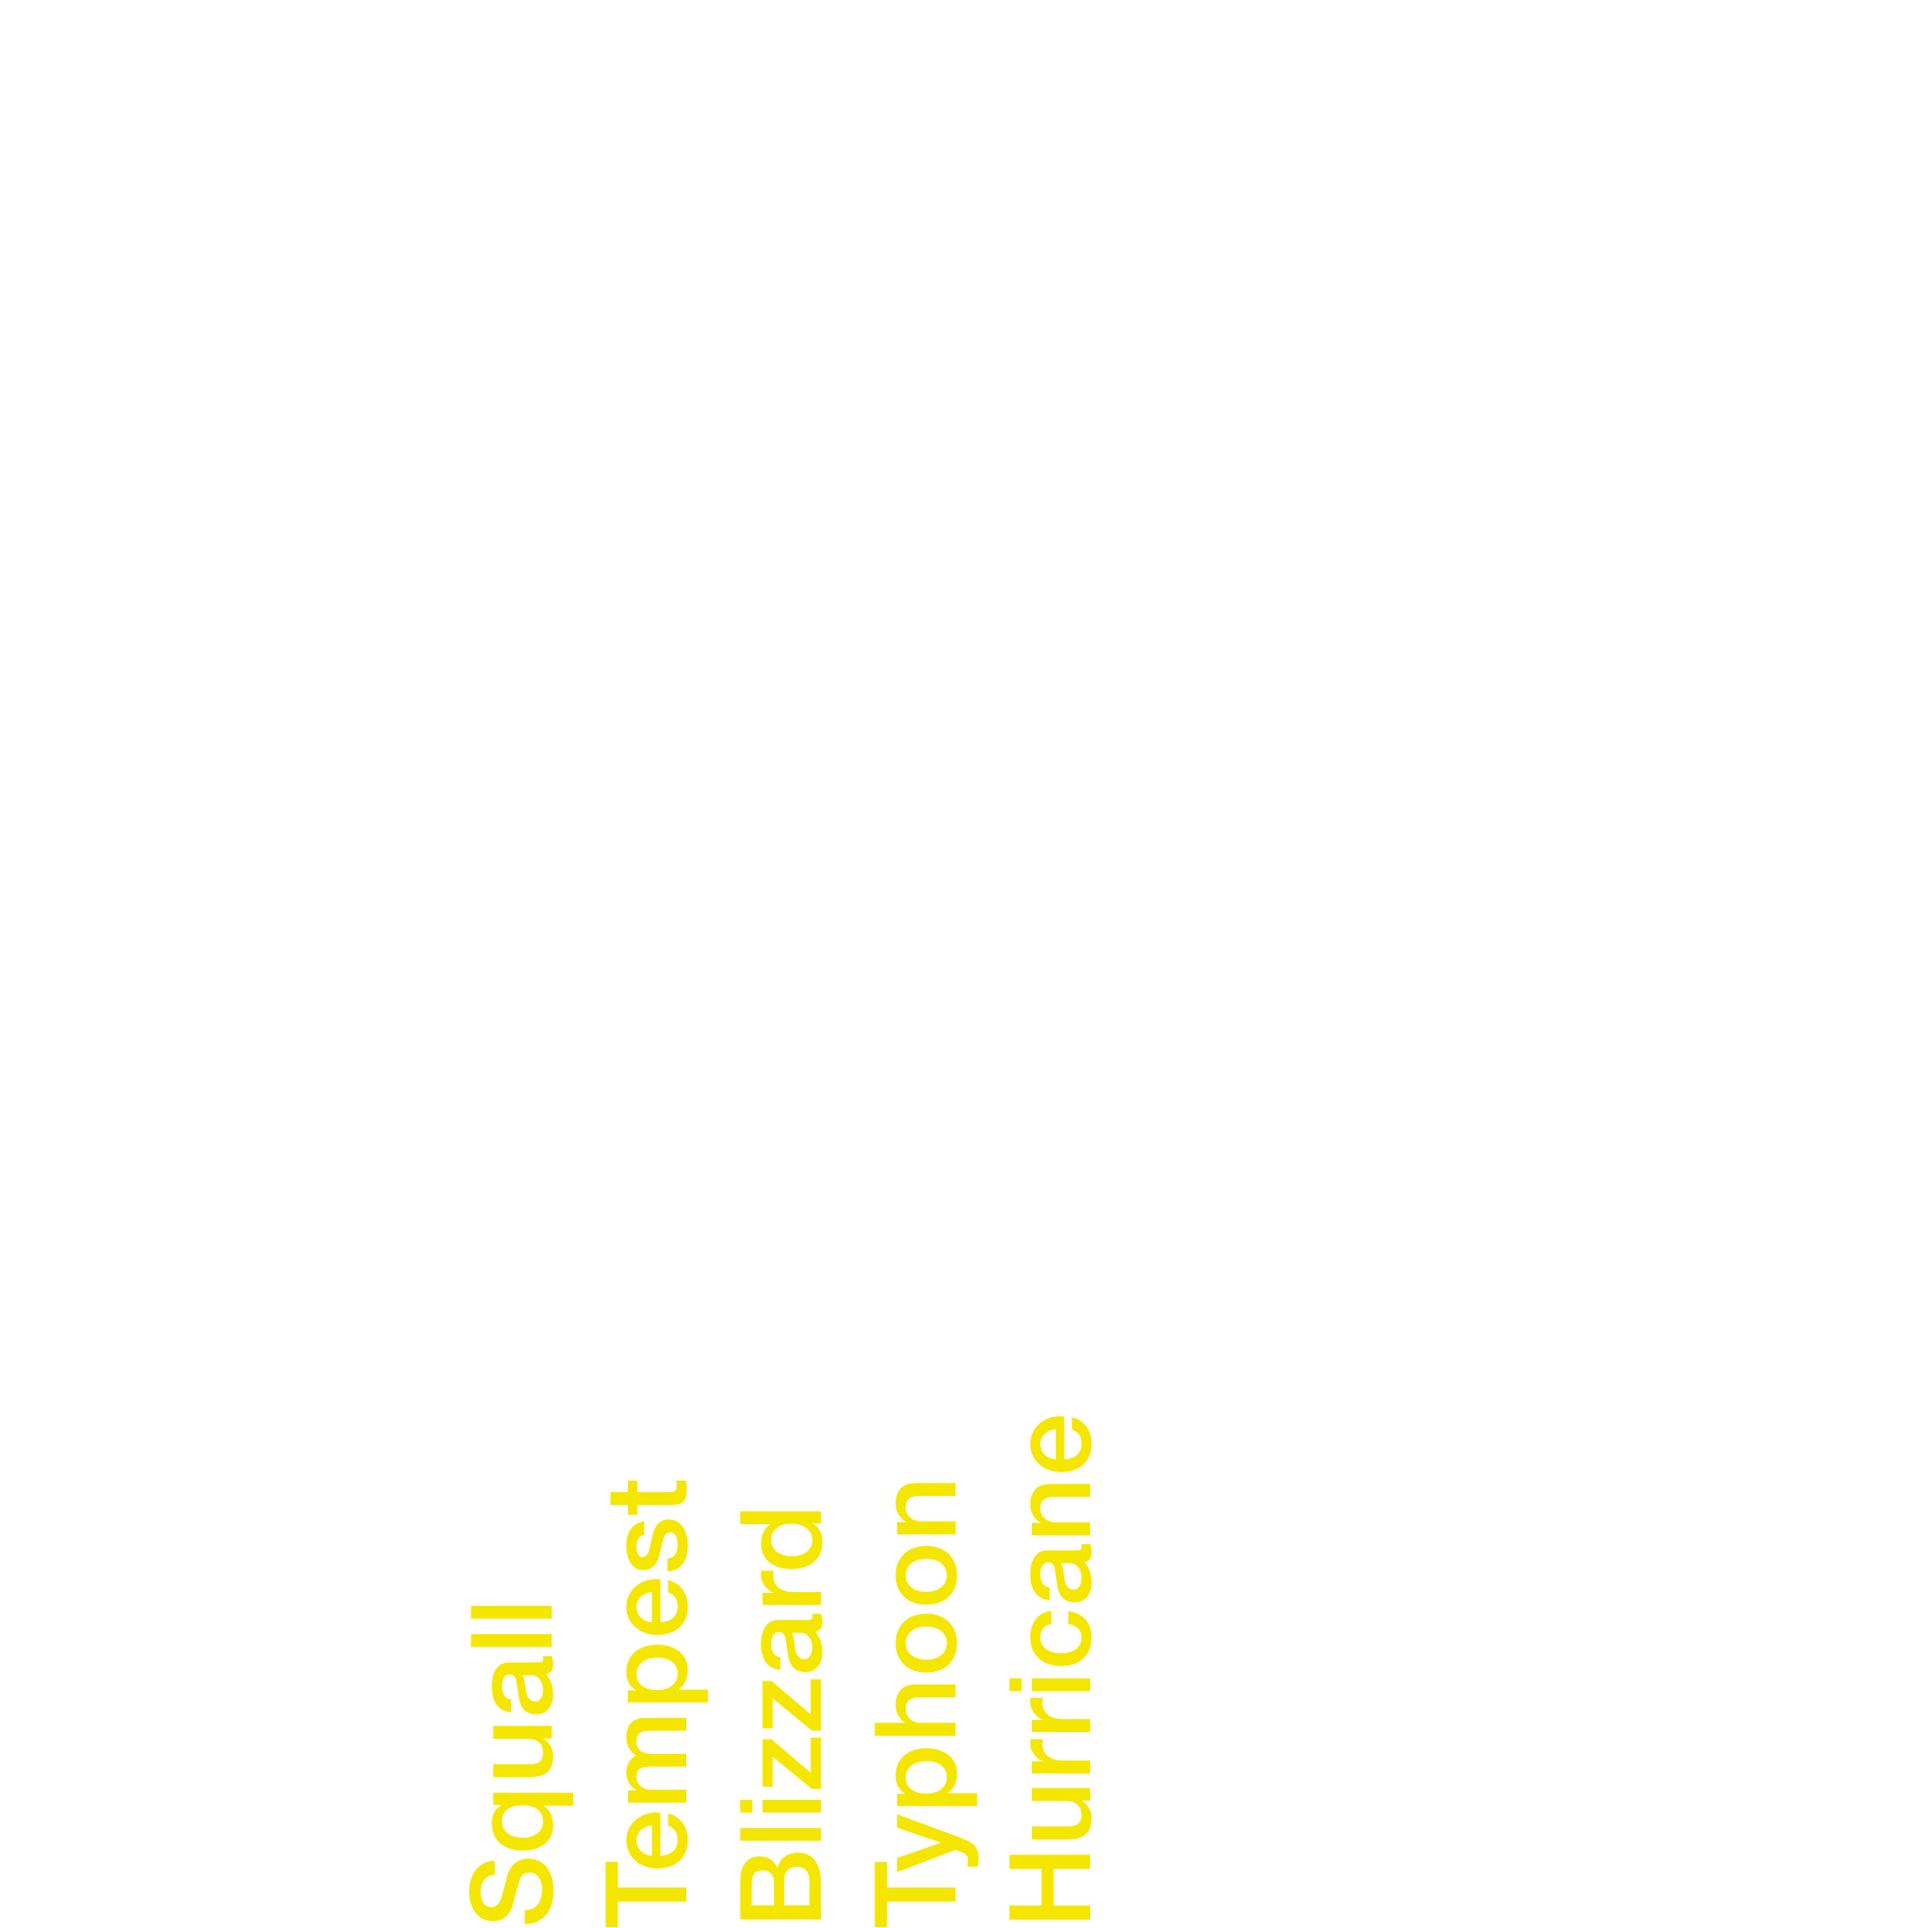
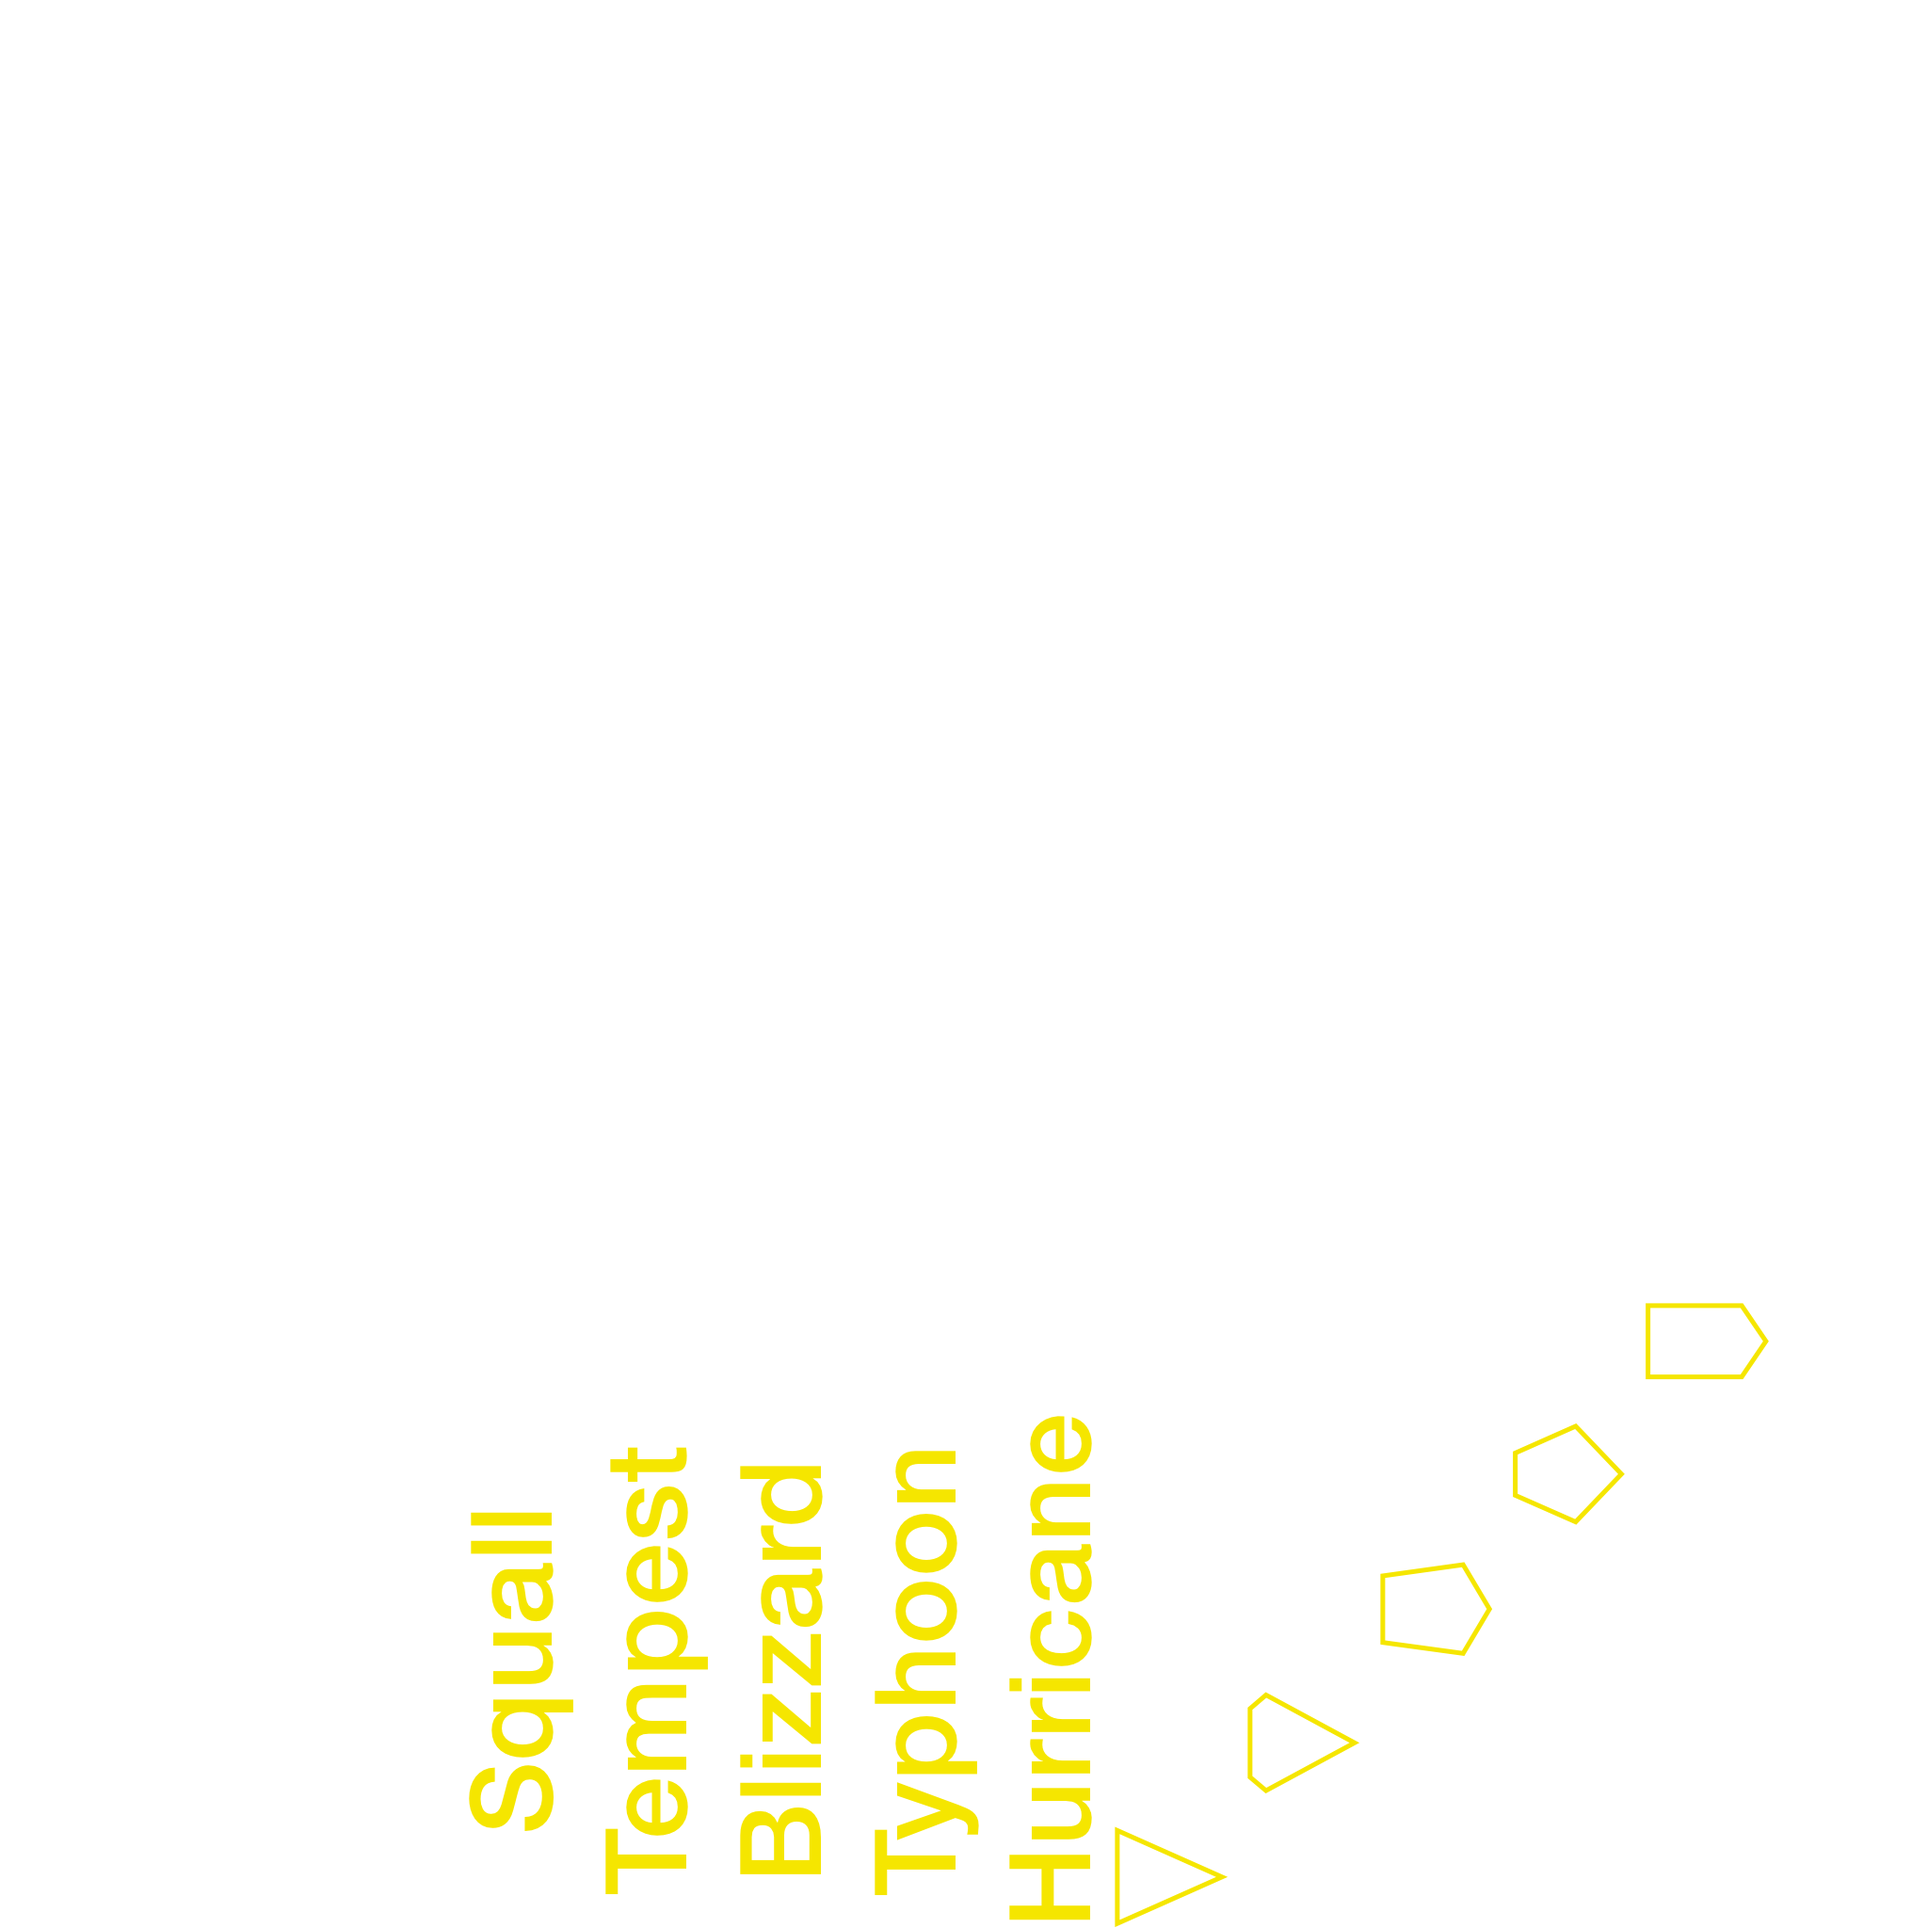
Added altitude meter

diff --git a/rings.h b/rings.h
@@ -50,13 +50,13 @@ Ringmaster rm1 = {
 
 void generateRings(Ringmaster *rm){
     for (int i = 0; i <= 12; i++){
-        ringList[i].x = 0;
-        ringList[i].y = nomScreenHeight;
-        ringList[i].width = nomScreenWidth;
-        ringList[i].height = 180;
+        ringList[i].x = 40;
+        ringList[i].y = nomScreenHeight - 361;
+        ringList[i].width = nomScreenWidth - 80;
+        ringList[i].height = 120;
         ringList[i].color = &ringColor;
-        ringList[i].velY = 1;
-        ringList[i].split = (rand() % ((nomScreenWidth - rm->gapSize) + 1 ) + (rm->gapSize / 2));
+        ringList[i].velY = 0.1;
+        ringList[i].split = (rand() % ((nomScreenWidth - rm->gapSize - 80) + 1 ) + (rm->gapSize / 2));
         ringList[i].gap = 0;
         rm->rings[i] = &ringList[i];
     }
@@ -64,10 +64,10 @@ void generateRings(Ringmaster *rm){
 
 void reorderRingArray(Ringmaster *rm){
     Ring *ring = rm->rings[0];
-    ring->y = nomScreenHeight;
-    ring->height = 200;
+    ring->y = nomScreenHeight - 361;
+    ring->height = 120;
     ring->velY = 0.1;
-    ring->split = (rand() % ((nomScreenWidth - rm->gapSize) + 1 ) + (rm->gapSize/ 2));
+    ring->split = (rand() % ((nomScreenWidth - rm->gapSize - 80) + 1 ) + (rm->gapSize/ 2));
     ring->gap = 0;
     for (int i = 0; i < rm->numRings; i++){
         rm->rings[i] = rm->rings[i+1];
@@ -77,7 +77,7 @@ void reorderRingArray(Ringmaster *rm){
 
 void updateRingmaster(Ringmaster *rm){
     rm->count++; //Count between launches
-    if (rm->active <= rm->numRings  && rm->count > 60){ //When to launch new rings
+    if (rm->active <= rm->numRings  && rm->count > 40){ //When to launch new rings
         rm->active++;
         rm->count = 0;
     }
@@ -88,9 +88,18 @@ void updateRingmaster(Ringmaster *rm){
         }
         if (braking == true){
             ring->velY += (nomScreenHeight - (ring->y)) * -rm->acceleration;
+            if (ring->velY < 0.1){
+              ring->velY = 0.1;
+            }
         }
         else {
-            ring->velY += (nomScreenHeight - (ring->y)) * rm->acceleration;
+            if (ring->y > nomScreenHeight - 800){
+              //ring->velY += (nomScreenHeight - (ring->y)) * (rm->acceleration / 10);
+              ring->velY += (nomScreenHeight - (ring->y)) * rm->acceleration / 8;
+            }
+            else {
+              ring->velY += (nomScreenHeight - (ring->y)) * rm->acceleration / 8;
+          }
         }
         if (ring->velY > rm->maxY){
             ring->velY = rm->maxY;
@@ -152,8 +161,6 @@ void drawRing(Ring *ring){
     int width = ring->split - ring->gap / 2;
     int width2 = ring->width - (ring->split + ring->gap / 2);
     int height = ring->height;
-    int width3 = ring->gap;
-    int x3 = ring->split - ring->gap / 2;
     S2D_Color *color = ring->color;
     #ifdef ROTATE
         S2D_DrawQuad(
@@ -176,16 +183,6 @@ void drawRing(Ring *ring){
             // Lower left
             (y + height), (nomScreenWidth - x2), color->r, color->g, color->b, color->a
         );
-        // S2D_DrawQuad(
-        //     // Upper left
-        //     y, (nomScreenWidth - x3), color->r, color->g, color->b, color->a,
-        //     // Upper right
-        //     y, (nomScreenWidth - (x3 + width3)), color->r, color->g, color->b, color->a,
-        //     // Lower right
-        //     (y + height), (nomScreenWidth - (x3 + width3)), color->r, color->g, color->b, color->a,
-        //     // Lower left
-        //     (y + height), (nomScreenWidth - x3), color->r, color->g, color->b, color->a
-        // );
     #else
         S2D_DrawQuad(
             // Upper left
@@ -207,16 +204,7 @@ void drawRing(Ring *ring){
             // Lower left
             x2, (y + height), color->r, color->g, color->b, color->a
         );
-        // S2D_DrawQuad(
-        //     // Upper left
-        //     x3, y, 1, 1, 1, 1,
-        //     // Upper right
-        //     (x3 + width3), y, 1, 1, 1, 1,
-        //     // Lower right
-        //     (x3 + width3), (y + height), 1, 1, 1, 1,
-        //     // Lower left
-        //     x3, (y + height), 1, 1, 1, 1
-        // );
+
     #endif
 }
 

diff --git a/sprites.h b/sprites.h
@@ -11,6 +11,12 @@ typedef struct Sprite {
     int width;
 } Sprite;
 
+typedef struct Animation {
+    int frame;
+    int first;
+    int last;
+} Animation;
+
 Sprite numberFont50;
 S2D_Sprite *numberFont50img;
 double nf50Sheet[10][4] = {
@@ -60,7 +66,7 @@ double nf80Sheet[10][4] = {
 
 Sprite gameSprite;
 S2D_Sprite *gameImg;
-double gameSheet[20][4] = {
+double gameSheet[21][4] = {
     {	0	,	0	,	280	,	180	}, // 0 - Select players
     {	0	,	180	,   280	,	180	}, // 1 - Select your ship
     {	0	,	360	,   152	,	36	}, // 2 - Ship stat - Control
@@ -80,7 +86,8 @@ double gameSheet[20][4] = {
     {	902	,	0   ,	450	,	540	}, //  16 - Select ship big 2
     {	574	,	587 ,	450	,	540	}, //  17 - Select ship big 3
     {	1076,	587 ,	450	,	540	}, //  18 - Select ship big 4
-    {	1377,	0   ,	450	,	540	} //  19 - Select ship big 5
+    {	1377,	0   ,	450	,	540	}, //  19 - Select ship big 5
+    { 0 ,  1892 ,  48 , 48} // 20 - Meter marker
 };
 
     // {	0	,	320	,	550	,	143	}, // 6 - Troposphere
@@ -116,7 +123,7 @@ void defineImages() {
         numberFont300img = S2D_CreateSprite("number_font_300px.png");
     #endif
     numberFont50img->x = 48;
-    numberFont50img->y = 46;
+    numberFont50img->y = 48;
     numberFont50.spr = numberFont50img;
     numberFont50.frames = 10;
     numberFont50.sheet = &nf50Sheet[0];
@@ -167,8 +174,16 @@ int numPlaces(int n){
     return 10;
 }
 
-void drawNumber(Sprite *sprite, int n, int x, int y){
+void drawNumber(Sprite *sprite, int n, int x, int y, char *alignment){
+    int right = strncmp(alignment, "right", 5);
+    int left = strncmp(alignment, "left", 4);
     int digits = numPlaces(n);
+    if (right == 0){
+       x = x - (digits * sprite->sheet[0][3]);
+    }
+    if (left == 0){
+       x = x;
+    }
     for (int i = digits; i>0; i--){
         // draw digits in order from right to left
 
@@ -194,11 +209,34 @@ void drawNumber(Sprite *sprite, int n, int x, int y){
     }
 }
 
-typedef struct Animation {
-    int frame;
-    int first;
-    int last;
-} Animation;
+void drawSprite2(Sprite *sprite, Animation *ani, int x, int y){
+    int frame = ani->first + ani->frame;
+    #ifdef ROTATE
+        S2D_ClipSprite(sprite->spr, sprite->sheet[frame][1], (sprite->width - sprite->sheet[frame][0] - sprite->sheet[frame][2]), sprite->sheet[frame][3], sprite->sheet[frame][2]);
+        sprite->spr->x = y;
+        sprite->spr->y = nomScreenWidth - x - sprite->sheet[frame][2];
+    #else
+        S2D_ClipSprite(sprite->spr, sprite->sheet[frame][0], sprite->sheet[frame][1], sprite->sheet[frame][2], sprite->sheet[frame][3]);
+        sprite->spr->x = x;
+        sprite->spr->y = y;
+    #endif
+    S2D_DrawSprite(sprite->spr);
+}
+
+Animation meterMarker = {
+    .frame = 0,
+    .first = 20,
+    .last = 20
+};
+
+void drawAltitude(int n){
+    int digits = numPlaces(n);
+    int x = (nomScreenWidth / 2) - ((digits + 1) * 46 / 2);
+    int markerX = (nomScreenWidth / 2) + (digits * 46 / 2);
+    int y = 40;
+    drawNumber(&numberFont50, n, x, y, "left");
+    drawSprite2(&gameSprite, &meterMarker,  markerX, y);
+}
 
 Animation bgShip1 = {
     .frame = 0,
@@ -312,20 +350,6 @@ Animation twoPAni = {
     .last = 5
 };
 
-
-void drawSprite2(Sprite *sprite, Animation *ani, int x, int y){
-    int frame = ani->first + ani->frame;
-    #ifdef ROTATE
-        S2D_ClipSprite(sprite->spr, sprite->sheet[frame][1], (sprite->width - sprite->sheet[frame][0] - sprite->sheet[frame][2]), sprite->sheet[frame][3], sprite->sheet[frame][2]);
-        sprite->spr->x = y;
-        sprite->spr->y = nomScreenWidth - x - sprite->sheet[frame][2];
-    #else
-        S2D_ClipSprite(sprite->spr, sprite->sheet[frame][0], sprite->sheet[frame][1], sprite->sheet[frame][2], sprite->sheet[frame][3]);
-        sprite->spr->x = x;
-        sprite->spr->y = y;
-    #endif
-    S2D_DrawSprite(sprite->spr);
-}
 
 
 // OLD SPRITES

diff --git a/gravity.c b/gravity.c
@@ -212,12 +212,12 @@ void updatePlayerSelect (Player *player, Selector *selector){
 void drawPlayerSelect(Selector *selector){
     drawRectangle(0,0, nomScreenWidth, nomScreenHeight, &darkBlue);
     if (selector->timeRemaining < 10){
-        drawNumber(&numberFont300, 0, 40, 1340);
-        drawNumber(&numberFont300, selector->timeRemaining, 210, 1340);
+        drawNumber(&numberFont300, 0, 40, 1340, "left");
+        drawNumber(&numberFont300, selector->timeRemaining, 210, 1340, "left");
     }
     else {
-        drawNumber(&numberFont300, 1, 70, 1340);
-        drawNumber(&numberFont300, 0, 210, 1340);
+        drawNumber(&numberFont300, 1, 70, 1340, "left");
+        drawNumber(&numberFont300, 0, 210, 1340, "left");
     }
     if (selector->p1Selection == 1){
         drawRectangle(40, 40, 500, 1242, &blue);
@@ -353,12 +353,12 @@ void drawStats(Ship *ship){
 void drawShipSelect(Selector *selector){
     drawRectangle(0,0, nomScreenWidth, nomScreenHeight, &darkBlue);
     if (selector->timeRemaining < 10){
-        drawNumber(&numberFont300, 0, 700, 1618);
-        drawNumber(&numberFont300, selector->timeRemaining, 870, 1618);
+        drawNumber(&numberFont300, 0, 700, 1618, "left");
+        drawNumber(&numberFont300, selector->timeRemaining, 870, 1618, "left");
     }
     else {
-        drawNumber(&numberFont300, 1, 730, 1618);
-        drawNumber(&numberFont300, 0, 870, 1618);
+        drawNumber(&numberFont300, 1, 730, 1618, "left");
+        drawNumber(&numberFont300, 0, 870, 1618, "left");
     }
     switch(selector->p1Selection){
         case 1:
@@ -409,6 +409,7 @@ void update() {
             updateBKG(&background);
             break;
         case 5: //Gameplay
+            game.altitude -= 9;
             if (firstTime == true){
                 generateRings(&rm1);
                 generateCapPoints(&capsule1, cpA1, cpT1, 10, false);
@@ -445,15 +446,17 @@ void render() {
             //drawRingDemo(&rm1, &ringTest);
             break;
         case 5: //Gameplay
+            drawBKG(&background);
             if (firstTime == false){
                 drawRingmaster(&rm1);
                 drawShip(&capsule1);
                 drawHeatBar(&capsule1, 40, nomScreenHeight - 154);
-                drawNumber(&numberFont50, player1.score, 40, nomScreenHeight - 88);
+                drawAltitude(game.altitude);
+                drawNumber(&numberFont50, player1.score, 40, nomScreenHeight - 88, "left");
                 //drawNumber(&numberFont50, capsule1.heat, 40, nomScreenHeight - 48);
                 if (game.players == 2){
                     drawShip(&capsule2);
-                    drawNumber(&numberFont50, player2.score, nomScreenWidth - 100, nomScreenHeight - 88);
+                    drawNumber(&numberFont50, player2.score, nomScreenWidth - 40, nomScreenHeight - 88, "right");
                     drawHeatBar(&capsule2, nomScreenWidth - 320, nomScreenHeight - 154);
                 }
             }

diff --git a/capsule.h b/capsule.h
@@ -308,7 +308,6 @@ void drawShip(Capsule *cap){
 
 void drawHeatBar(Capsule *cap, int x, int y){
     float heatPercent = cap->heat / 100.00;
-    printf("Heat Percent = %f\n", heatPercent);
     if (cap->heat < 1){
       drawBar(x, y, 280, 40, 0, &green);
     }

diff --git a/bkg.h b/bkg.h
@@ -14,7 +14,7 @@ typedef struct BKG {
 } BKG;
 
 BKG background = {
-    .color1 = &black,
+    .color1 = &darkBlue,
     .color2 = &darkBlue
 };
 
